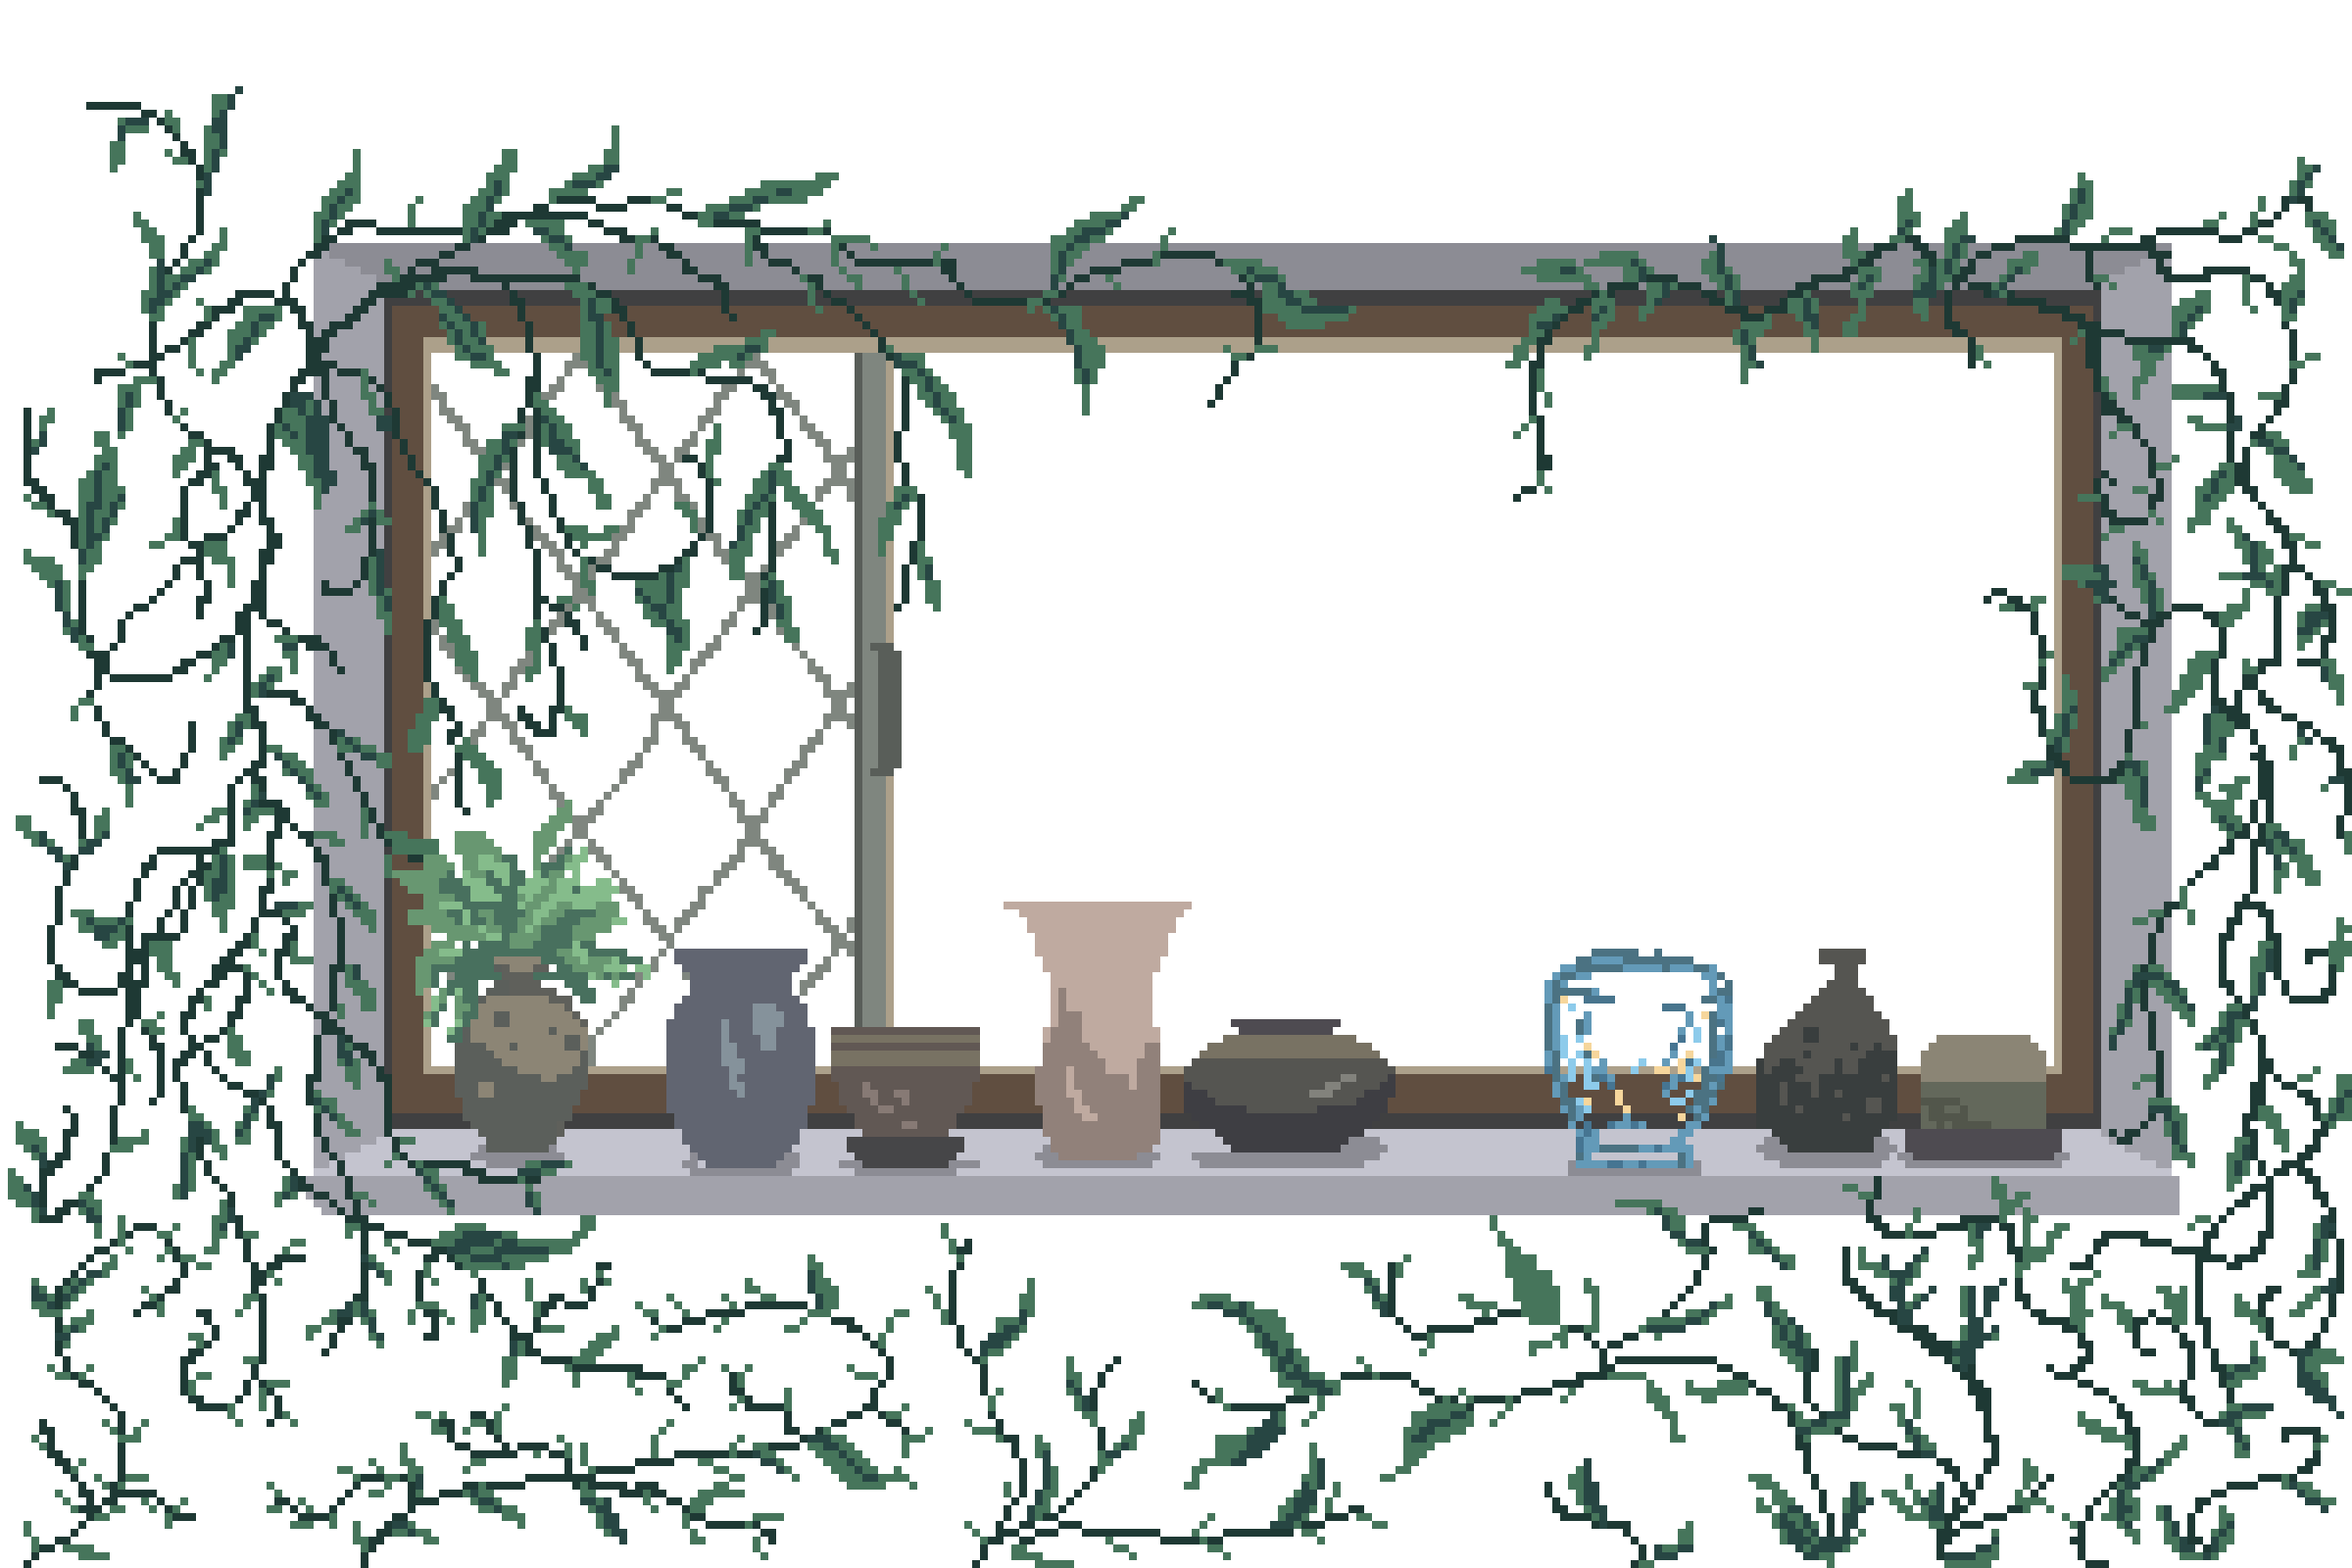
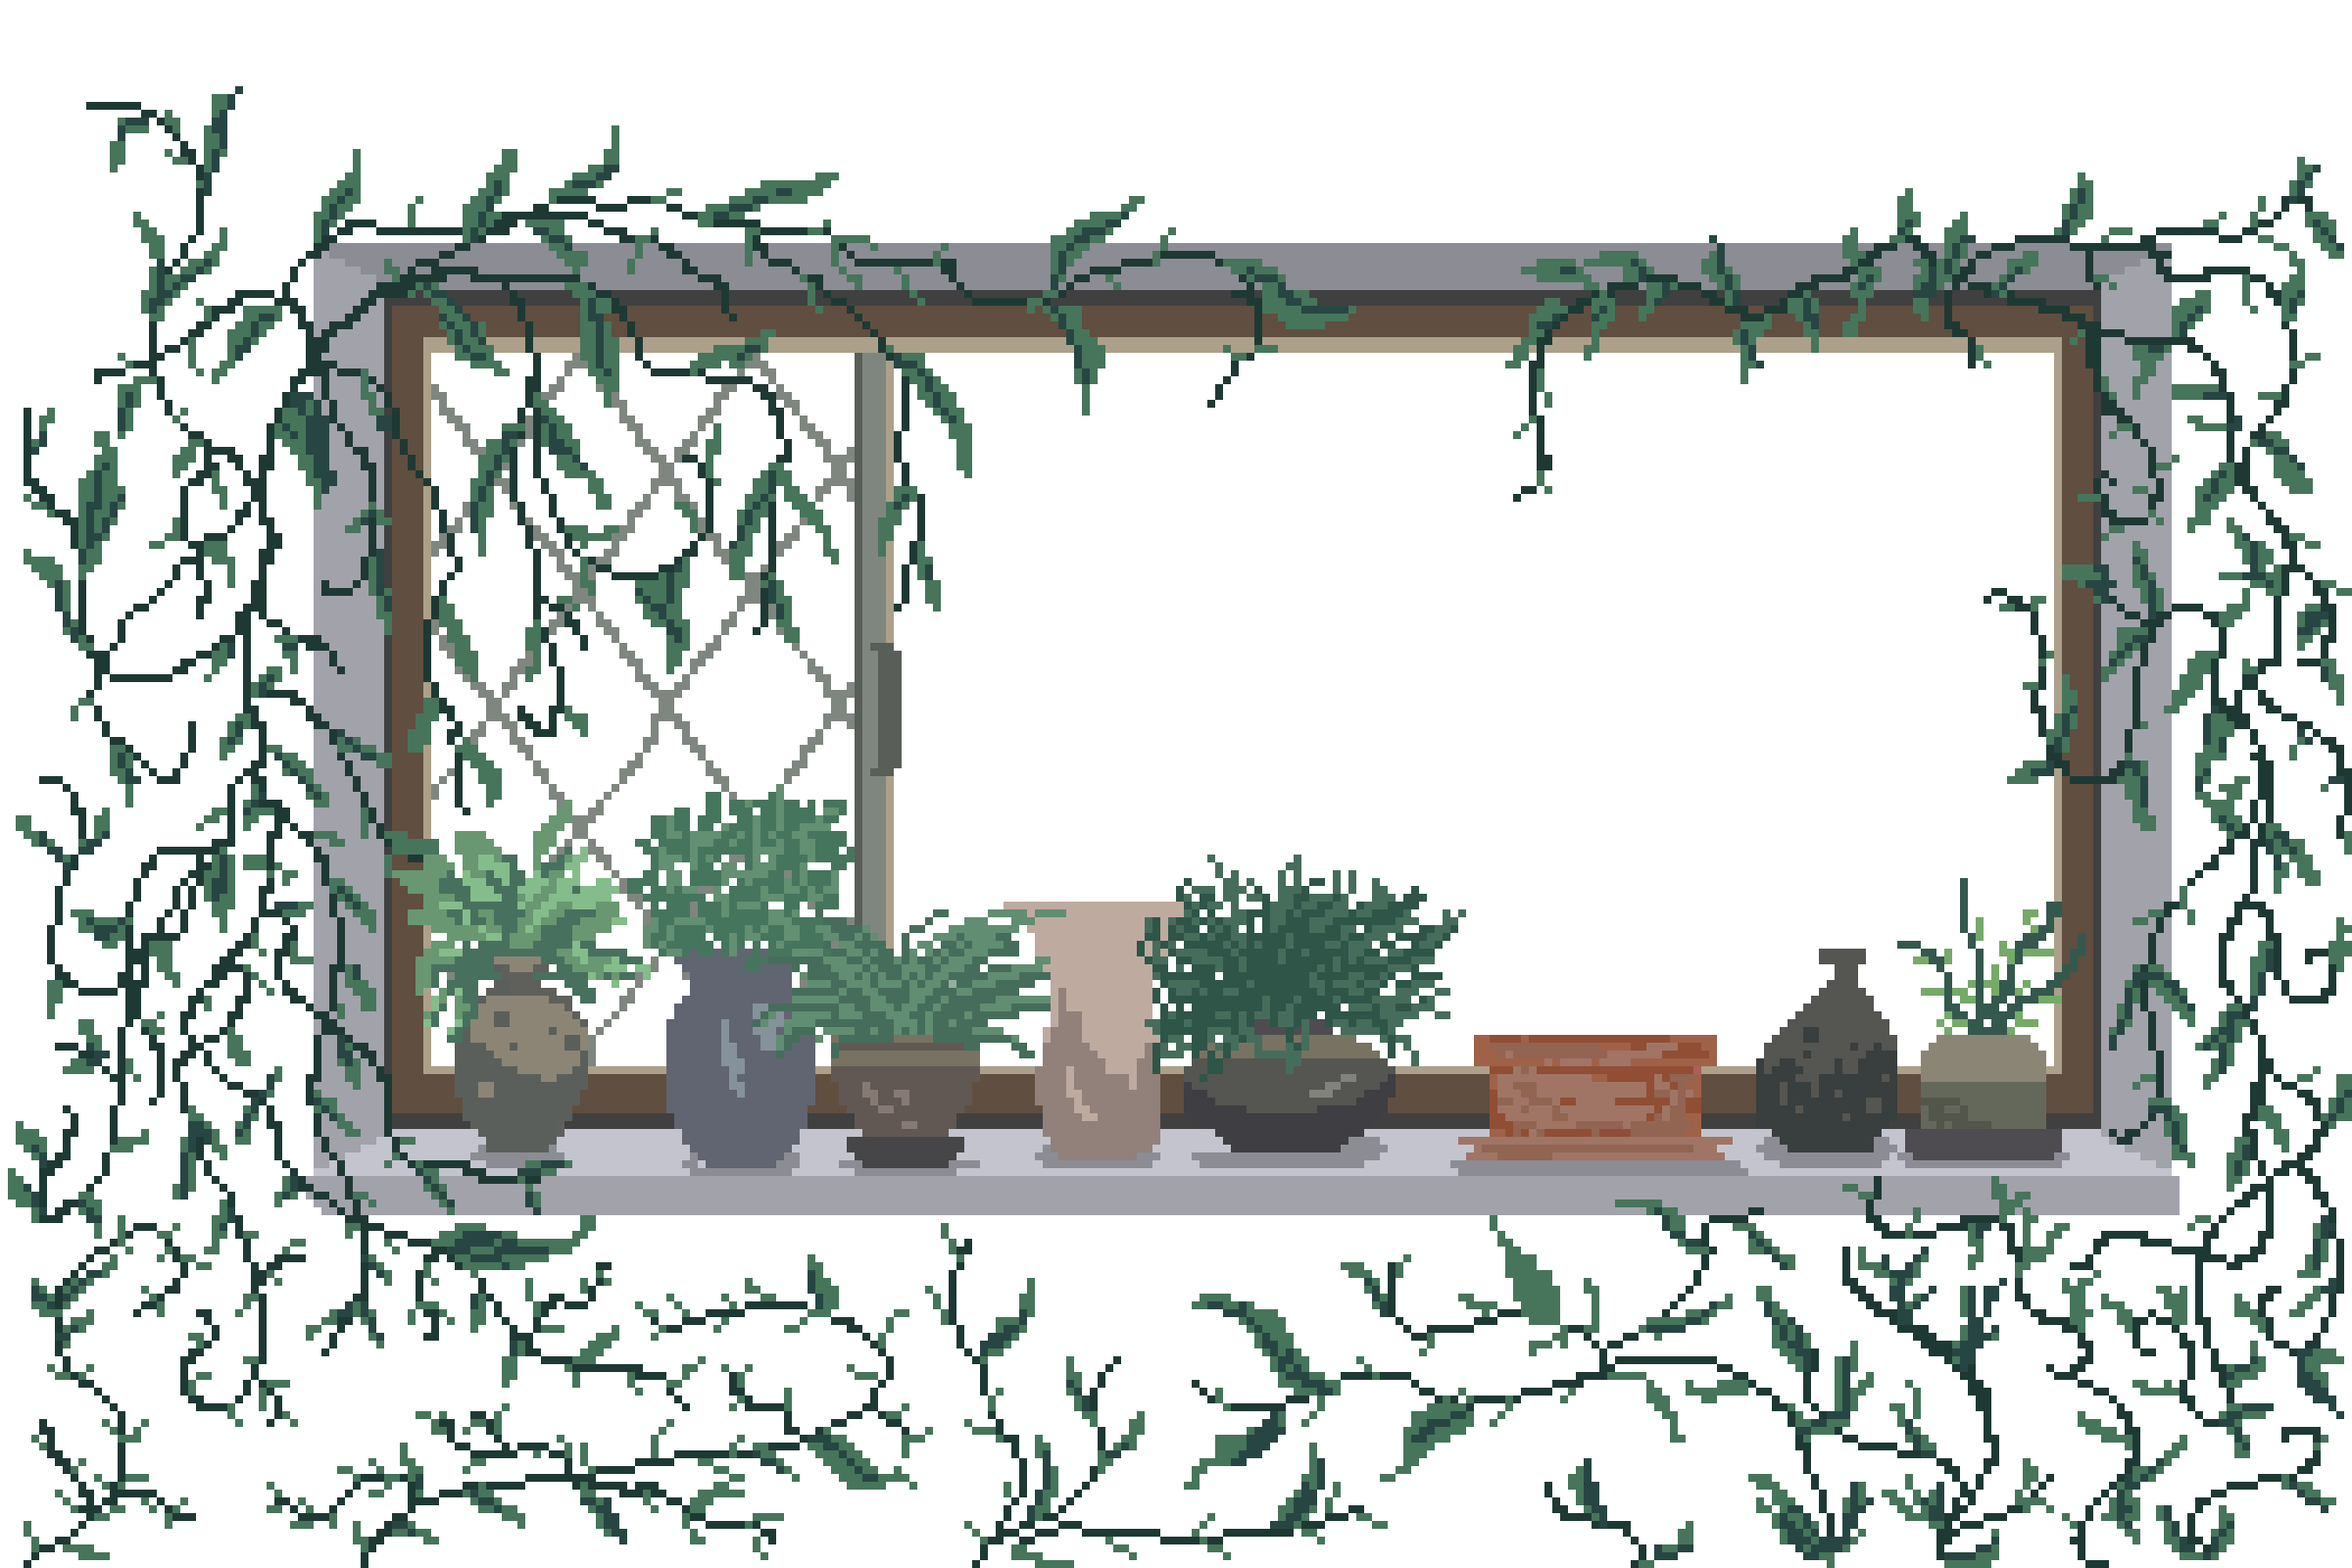
pixel update
changed the glass pot to a different design that the seasonal flower sits in, added new plants to window pots, worked on css a bit with the layering of each scene piece AND added a sun gif i created !! condition change not hooked up still need to create them but wanted to see sizing and if it worked eeeee

Changed region(s): [[0.25, 0.5, 0.625, 0.6875], [0.5938, 0.5938, 0.75, 0.75], [0.8125, 0.5625, 0.9062, 0.6562]]

diff --git a/pixel-clock/src/style/pixel.css b/pixel-clock/src/style/pixel.css
@@ -4,6 +4,25 @@
     width: 96px;
     height: 96px;*/
   }
+  .pixel-condition{
+    image-rendering: pixelated;
+    max-width: 180%;
+    transform: translate(25%, 3%);
+    margin-top: 10%;
+     
+    
+    /*
+    max-width: 200%;
+    max-height: 40%;
+    transform: translate(105%, 40%), scale(1.9);
+    */
+    z-index: -2;
+  }
+  .pixel-condition img {
+    /* Adjust these values to position the desired part of the image */
+     
+    margin-left: -300px;
+}
   
   .pixel-sprite {
     /*width: 96px;
@@ -11,7 +30,7 @@
     
     */
     max-width: 40%;
-    transform: translate(380%, 180%);
+    transform: translate(380%, 190%);
     z-index: -1;
     image-rendering: pixelated;
   }

diff --git a/pixel-clock/src/components/PixelDisplay.tsx b/pixel-clock/src/components/PixelDisplay.tsx
@@ -8,6 +8,8 @@ import winter from '../assets/flowers/snowdrop.PNG';
 
 import windowPixel from '../assets/window.png'
 
+import sun from '../assets/conditions/sun.gif'
+
 //TODO weather animation imports
 
 const flowerSeason = {
@@ -59,6 +61,7 @@ function PixelDisplay({condition, isDay, date = new Date()}: PixelDisplayProps){
         <div>
         <div className="window-scene-container">
         <img src={windowPixel} className="pixel-window"/>
+        <img src={sun} className="pixel-condition"/>
         <img src={flower} className="pixel-sprite"/>
         </div>
 
